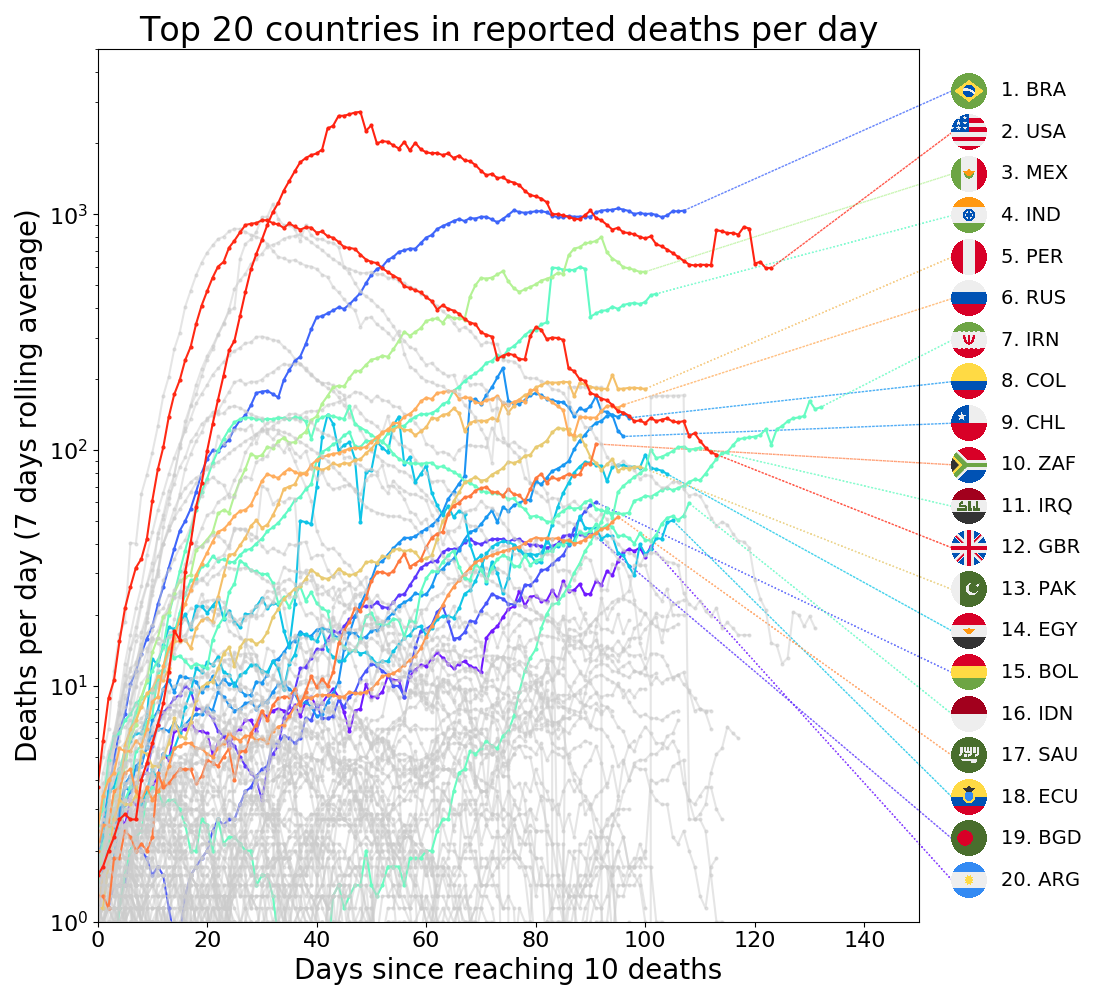
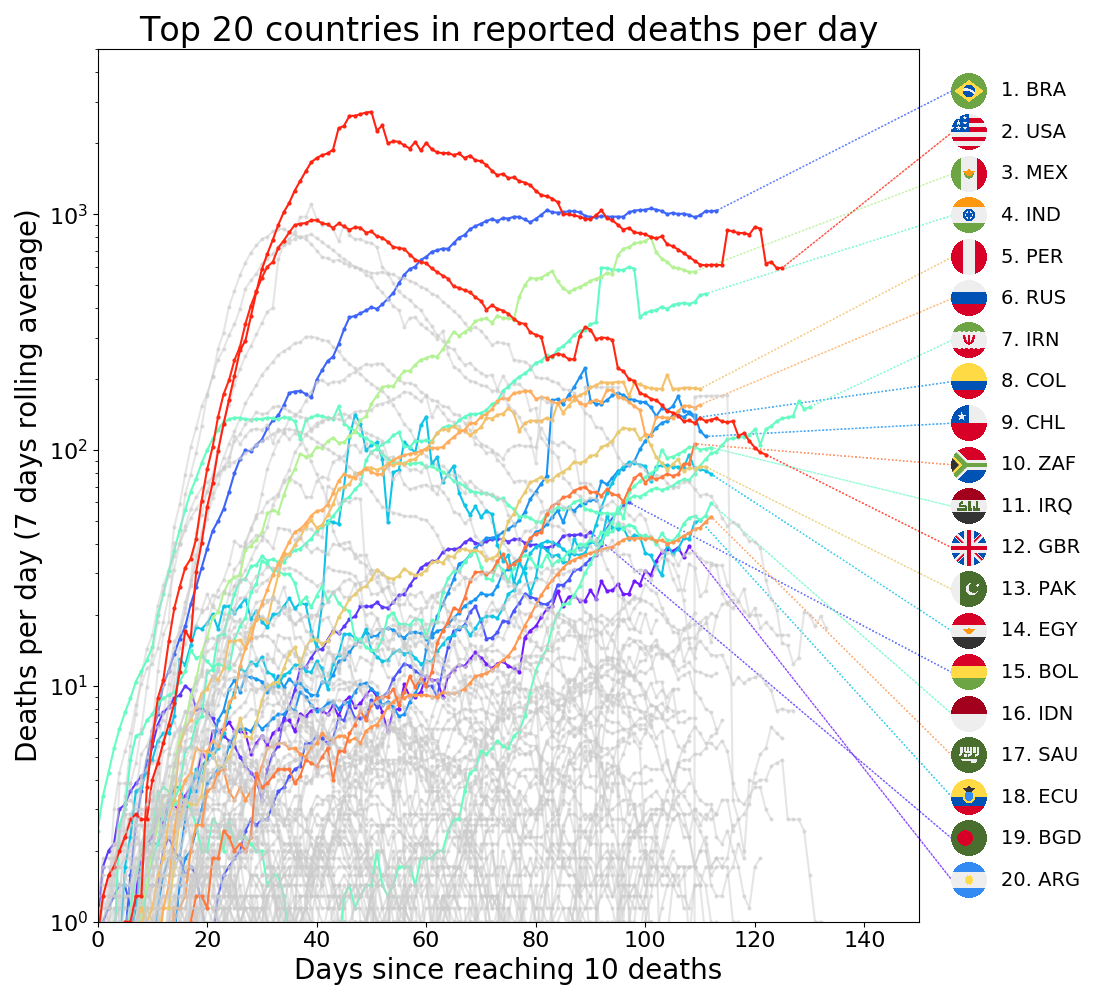
Organized EDA scripts

diff --git a/src/countries_eda.py b/src/countries_eda.py
@@ -49,32 +49,28 @@ colors = get_list_colors('rainbow', len(countries))
 countries2id = pd.DataFrame(world_df.groupby('countriesAndTerritories')['geoId'].max())
 countries2abr = pd.DataFrame(world_df.groupby('countriesAndTerritories')['countryterritoryCode'].max())
 
+sizes = 2
 topn = 20
-#maxx = np.max(world_df['dateRep'].unique()-min_date)/np.timedelta64(1, 'D')
-maxx = 150
+maxx = np.max(world_df['dateRep'].unique()-min_date)/np.timedelta64(1, 'D')-38
 
-maxy = 1e07
-miny = 100
-hlcountries = world_df.groupby('countriesAndTerritories')['total_cases'].max().sort_values(ascending=True).index[-topn:].values
-legendys = np.logspace(np.log10(miny), np.log10(maxy), len(hlcountries)+2)
-fig, axes = plt.subplots(ncols=1, nrows=1, figsize=(11, 10))
-for (i, country) in enumerate(countries):
-    sdf = world_df[world_df['countriesAndTerritories'] == country].sort_values('dateRep', ascending=True)
+def get_days(sdf, min_date=min_date):
     days = pd.Series((sdf['dateRep'] - min_date).values/np.timedelta64(1, 'D'))
     if((sdf['total_cases'] > 100).sum() > 0):
         zeroday = (sdf[sdf['total_cases'] > 100]['dateRep'].iloc[0]-min_date)/np.timedelta64(1, 'D')
     else:
-        zeroday = days.max()
-    yval = sdf['total_cases']
+        zeroday = days.max()    
     deltadays = days-zeroday
+    return(days, deltadays)
+
+def country_legend(axes, country, hlcountries, legendys, yval, colors=colors, maxx=maxx):
     if(country in hlcountries):
         color = colors[i]
         abr = countries2abr.loc[country, 'countryterritoryCode']
         ind = np.where(hlcountries == country)[0][0]
         axes.text(1.1*maxx, legendys[ind+1], str(topn-ind)+'. '+abr,
                   horizontalalignment='left', verticalalignment='center', fontsize=14)
-        plt.arrow(deltadays.max(), sdf['total_cases'].iloc[-1],
-                  1.04*maxx-deltadays.max(), legendys[ind+1]-sdf['total_cases'].iloc[-1],
+        plt.arrow(deltadays.max(), yval.iloc[-1],
+                  1.04*maxx-deltadays.max(), legendys[ind+1]-yval.iloc[-1],
                   clip_on=False, shape='right', ls=':', color=color, alpha=0.75)
         geoid = countries2id.loc[country, 'geoId'].lower()
         if(geoid == 'uk'):
@@ -90,7 +86,18 @@ for (i, country) in enumerate(countries):
         axes.add_artist(ab)
     else:
         color = (0.8, 0.8, 0.8, 0.5)
-    sizes = 2
+    return color
+
+maxy = 1e07
+miny = 100
+hlcountries = world_df.groupby('countriesAndTerritories')['total_cases'].max().sort_values(ascending=True).index[-topn:].values
+legendys = np.logspace(np.log10(miny), np.log10(maxy), len(hlcountries)+2)
+fig, axes = plt.subplots(ncols=1, nrows=1, figsize=(11, 10))
+for (i, country) in enumerate(countries):
+    sdf = world_df[world_df['countriesAndTerritories'] == country].sort_values('dateRep', ascending=True)
+    yval = sdf['total_cases']
+    (days, deltadays) = get_days(sdf)
+    color = country_legend(axes, country, hlcountries, legendys, yval, colors=colors, maxx=maxx)
     axes.plot(deltadays, yval, 'o-', c=color, markersize=sizes, markeredgecolor=color)
 local_axes_formatting(axes, "Days since reaching 100 cases", "Total Positive Cases", xlim1=0, xlim2=maxx, ylim1=miny, ylim2=maxy, logx=False, fs=20)
 axes.set_title('Top 20 countries in total positive cases', fontsize=24)
@@ -107,37 +114,9 @@ legendys = np.logspace(np.log10(miny), np.log10(maxy), len(hlcountries)+2)
 fig, axes = plt.subplots(ncols=1, nrows=1, figsize=(11, 10))
 for (i, country) in enumerate(countries):
     sdf = world_df[world_df['countriesAndTerritories'] == country].sort_values('dateRep', ascending=True)
-    days = pd.Series((sdf['dateRep'] - min_date).values/np.timedelta64(1, 'D'))
-    if((sdf['total_cases'] > 100).sum() > 0):
-        zeroday = (sdf[sdf['total_cases'] > 100]['dateRep'].iloc[0]-min_date)/np.timedelta64(1, 'D')
-    else:
-        zeroday = days.max()
     yval = sdf['cases_rolling']
-    deltadays = days-zeroday
-    if(country in hlcountries):
-        color = colors[i]
-        abr = countries2abr.loc[country, 'countryterritoryCode']
-        ind = np.where(hlcountries == country)[0][0]
-        axes.text(1.1*maxx, legendys[ind+1], str(topn-ind)+'. '+abr,
-                  horizontalalignment='left', verticalalignment='center', fontsize=14)
-        plt.arrow(deltadays.max(), yval.iloc[-1],
-                  1.04*maxx-deltadays.max(), legendys[ind+1]-yval.iloc[-1],
-                  clip_on=False, shape='right', ls=':', color=color, alpha=0.75)
-        geoid = countries2id.loc[country, 'geoId'].lower()
-        if(geoid == 'uk'):
-            geoid = 'gb'
-        flagpath = 'circle-flags/flags/'+ geoid +'.png'
-        if(not os.path.isfile(flagpath)):
-            print(flagpath)
-        flagimg = mpimg.imread(flagpath)
-        zoom = 0.05
-        im = OffsetImage(flagimg, zoom=zoom)
-        ab = AnnotationBbox(im, (1.06*maxx, legendys[ind+1]), xycoords='data',
-                            frameon=False, annotation_clip=False)
-        axes.add_artist(ab)
-    else:
-        color = (0.8, 0.8, 0.8, 0.5)
-    sizes = 2
+    (days, deltadays) = get_days(sdf)
+    color = country_legend(axes, country, hlcountries, legendys, yval, colors=colors, maxx=maxx)
     axes.plot(deltadays, yval, 'o-', c=color, markersize=sizes, markeredgecolor=color)
 local_axes_formatting(axes, "Days since reaching 100 cases", "New cases per day (7 days rolling average)", xlim1=0, xlim2=maxx, ylim1=miny, ylim2=maxy, logx=False, fs=20)
 axes.set_title('Top 20 countries in positive cases per day', fontsize=24)
@@ -154,38 +133,9 @@ legendys = np.logspace(np.log10(miny), np.log10(maxy), len(hlcountries)+2)
 fig, axes = plt.subplots(ncols=1, nrows=1, figsize=(11, 10))
 for (i, country) in enumerate(countries):
     sdf = world_df[world_df['countriesAndTerritories'] == country].sort_values('dateRep', ascending=True)
-    days = pd.Series((sdf['dateRep'] - min_date).values/np.timedelta64(1, 'D'))
-    days = pd.Series((sdf['dateRep'] - min_date).values/np.timedelta64(1, 'D'))
-    if((sdf['total_deaths'] > 10).sum() > 0):
-        zeroday = (sdf[sdf['total_deaths'] > 10]['dateRep'].iloc[0]-min_date)/np.timedelta64(1, 'D')
-    else:
-        zeroday = days.max()
     yval = sdf['total_deaths']
-    deltadays = days-zeroday
-    if(country in hlcountries):
-        color = colors[i]
-        abr = countries2abr.loc[country, 'countryterritoryCode']
-        ind = np.where(hlcountries == country)[0][0]
-        axes.text(1.1*maxx, legendys[ind+1], str(topn-ind)+'. '+abr,
-                  horizontalalignment='left', verticalalignment='center', fontsize=14)
-        plt.arrow(deltadays.max(), yval.iloc[-1],
-                  1.04*maxx-deltadays.max(), legendys[ind+1]-yval.iloc[-1],
-                  clip_on=False, shape='right', ls=':', color=color, alpha=0.75)
-        geoid = countries2id.loc[country, 'geoId'].lower()
-        if(geoid == 'uk'):
-            geoid = 'gb'
-        flagpath = 'circle-flags/flags/'+ geoid +'.png'
-        if(not os.path.isfile(flagpath)):
-            print(flagpath)
-        flagimg = mpimg.imread(flagpath)
-        zoom = 0.05
-        im = OffsetImage(flagimg, zoom=zoom)
-        ab = AnnotationBbox(im, (1.06*maxx, legendys[ind+1]), xycoords='data',
-                            frameon=False, annotation_clip=False)
-        axes.add_artist(ab)
-    else:
-        color = (0.8, 0.8, 0.8, 0.5)
-    sizes = 2
+    (days, deltadays) = get_days(sdf)
+    color = country_legend(axes, country, hlcountries, legendys, yval, colors=colors, maxx=maxx)    
     axes.plot(deltadays, yval, 'o-', c=color, markersize=sizes, markeredgecolor=color)
 local_axes_formatting(axes, "Days since reaching 10 deaths", "Total Reported Deaths", xlim1=0, xlim2=maxx, ylim1=miny, ylim2=maxy, logx=False, fs=20)
 axes.set_title('Top 20 countries in total reported deaths', fontsize=24)
@@ -201,38 +151,9 @@ legendys = np.logspace(np.log10(miny), np.log10(maxy), len(hlcountries)+2)
 fig, axes = plt.subplots(ncols=1, nrows=1, figsize=(11, 10))
 for (i, country) in enumerate(countries):
     sdf = world_df[world_df['countriesAndTerritories'] == country].sort_values('dateRep', ascending=True)
-    days = pd.Series((sdf['dateRep'] - min_date).values/np.timedelta64(1, 'D'))
-    days = pd.Series((sdf['dateRep'] - min_date).values/np.timedelta64(1, 'D'))
-    if((sdf['total_deaths'] > 10).sum() > 0):
-        zeroday = (sdf[sdf['total_deaths'] > 10]['dateRep'].iloc[0]-min_date)/np.timedelta64(1, 'D')
-    else:
-        zeroday = days.max()
     yval = sdf['deaths_rolling']
-    deltadays = days-zeroday
-    if(country in hlcountries):
-        color = colors[i]
-        abr = countries2abr.loc[country, 'countryterritoryCode']
-        ind = np.where(hlcountries == country)[0][0]
-        axes.text(1.1*maxx, legendys[ind+1], str(topn-ind)+'. '+abr,
-                  horizontalalignment='left', verticalalignment='center', fontsize=14)
-        plt.arrow(deltadays.max(), yval.iloc[-1],
-                  1.04*maxx-deltadays.max(), legendys[ind+1]-yval.iloc[-1],
-                  clip_on=False, shape='right', ls=':', color=color, alpha=0.75)
-        geoid = countries2id.loc[country, 'geoId'].lower()
-        if(geoid == 'uk'):
-            geoid = 'gb'
-        flagpath = 'circle-flags/flags/'+ geoid +'.png'
-        if(not os.path.isfile(flagpath)):
-            print(flagpath)
-        flagimg = mpimg.imread(flagpath)
-        zoom = 0.05
-        im = OffsetImage(flagimg, zoom=zoom)
-        ab = AnnotationBbox(im, (1.06*maxx, legendys[ind+1]), xycoords='data',
-                            frameon=False, annotation_clip=False)
-        axes.add_artist(ab)
-    else:
-        color = (0.8, 0.8, 0.8, 0.5)
-    sizes = 2
+    (days, deltadays) = get_days(sdf)
+    color = country_legend(axes, country, hlcountries, legendys, yval, colors=colors, maxx=maxx)
     axes.plot(deltadays, yval, 'o-', c=color, markersize=sizes, markeredgecolor=color)
 local_axes_formatting(axes, "Days since reaching 10 deaths", "Deaths per day (7 days rolling average)", xlim1=0, xlim2=maxx, ylim1=miny, ylim2=maxy, logx=False, fs=20)
 axes.set_title('Top 20 countries in reported deaths per day', fontsize=24)
